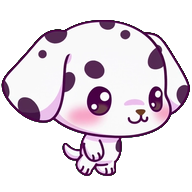
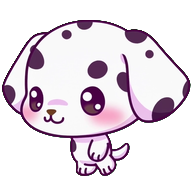
pet: peter2 walk cycle faces left (mirrored at generation time)
peter2's saved walk frames were mirrored once already at
generation. peter2 mmx came out front/3-quarter facing, which
doesn't read as a direction. After re-mirroring at gen time the
cat reads as facing left -- distinct from luna's rightward walk.

Set WALK_FACES_RIGHT[peter2] = True in sprite_loader so
window.py treats the saved image as already in the going
direction: going keeps the file as-is (facing left), returning
flips it (facing right).

Result: peter2 walks leftward visually -- on the way to the
mouse the cat is sliding sideways to the right, on the way
back it slides sideways to the left. This is the 'always face
left' mode the user asked for.

Changed region(s): [[0.0, 0.0938, 1.0, 0.9375], [0.4375, 0.3125, 0.5625, 0.4062]]

diff --git a/ccmon/ui/pet/sprite_loader.py b/ccmon/ui/pet/sprite_loader.py
@@ -55,6 +55,12 @@ WALK_FPS = 12  # 4 frames at 12 fps = 3 fps perceived, comfortable for a cat
 #        back.
 WALK_FACES_RIGHT: dict[str, bool] = {
     "luna": True,
+    # peter2's saved walk frames face LEFT (we deliberately mirrored
+    # them at generation time to give peter2 a distinct walk direction
+    # from luna). window.py reads this flag and applies a flip only
+    # when the going direction doesn't match the saved direction --
+    # so on the way out peter2 keeps its left-facing pose, on the
+    # way back it flips to face right.
     "peter2": True,
 }
 
